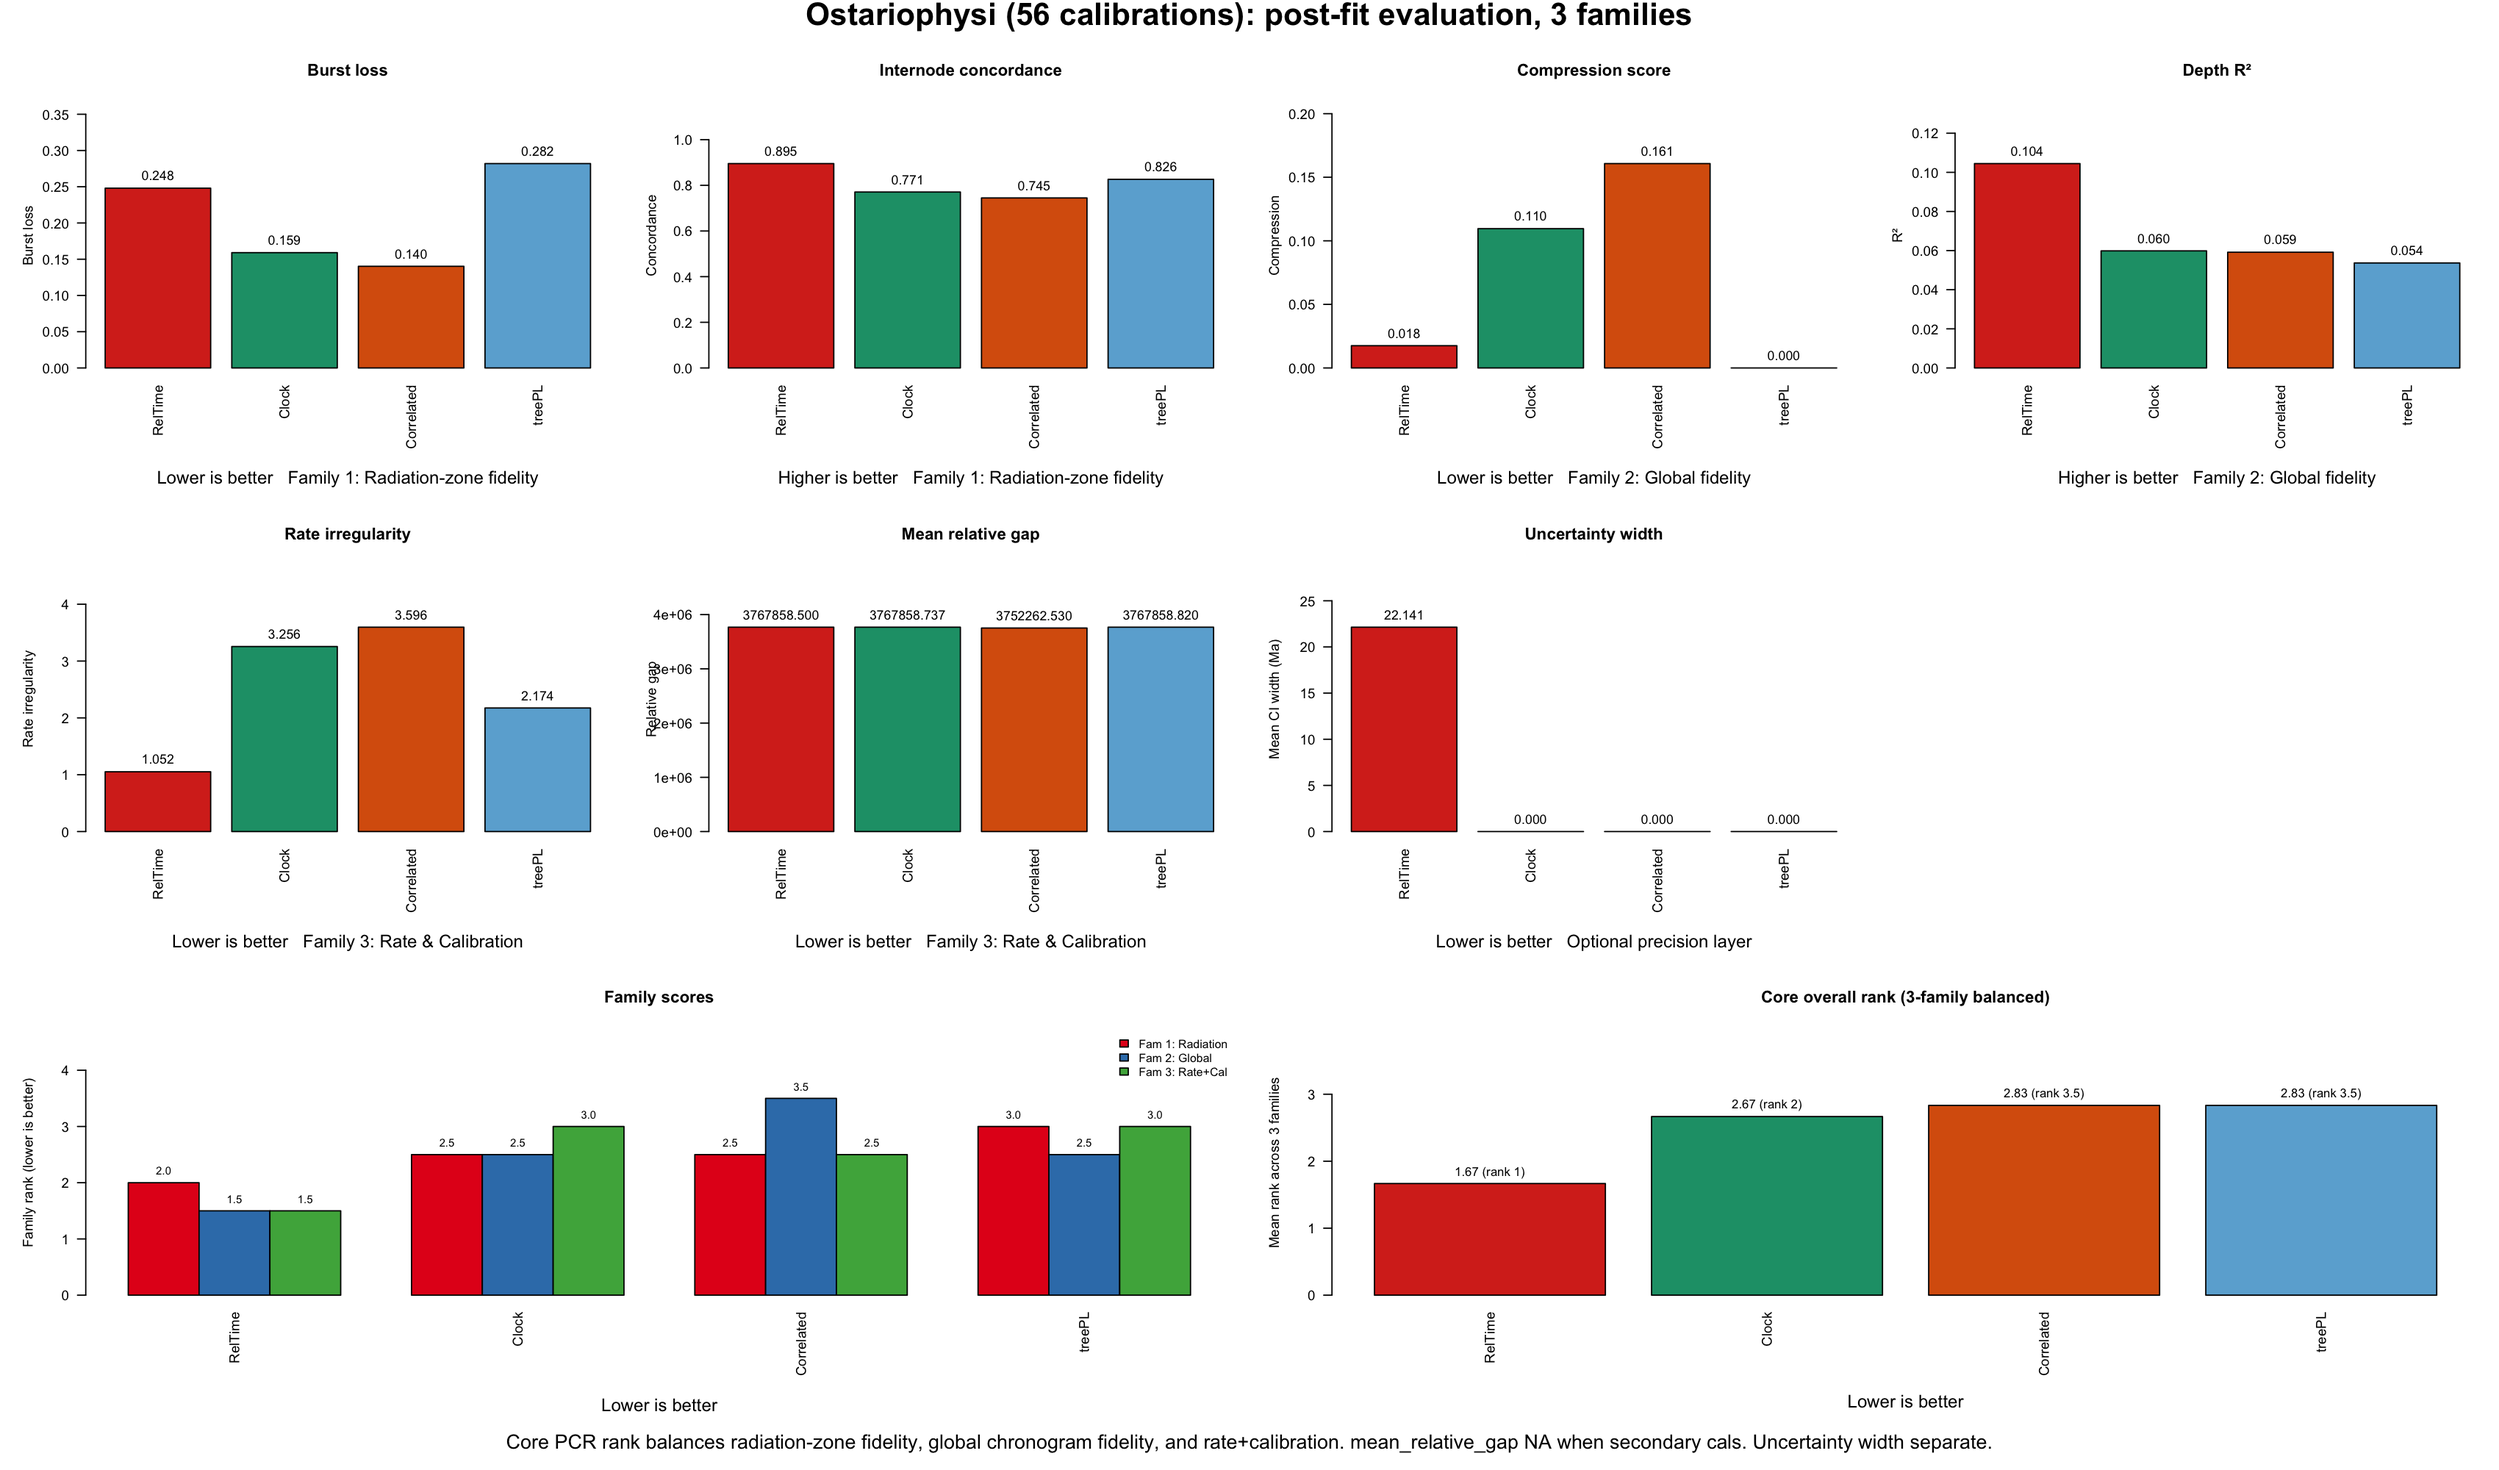
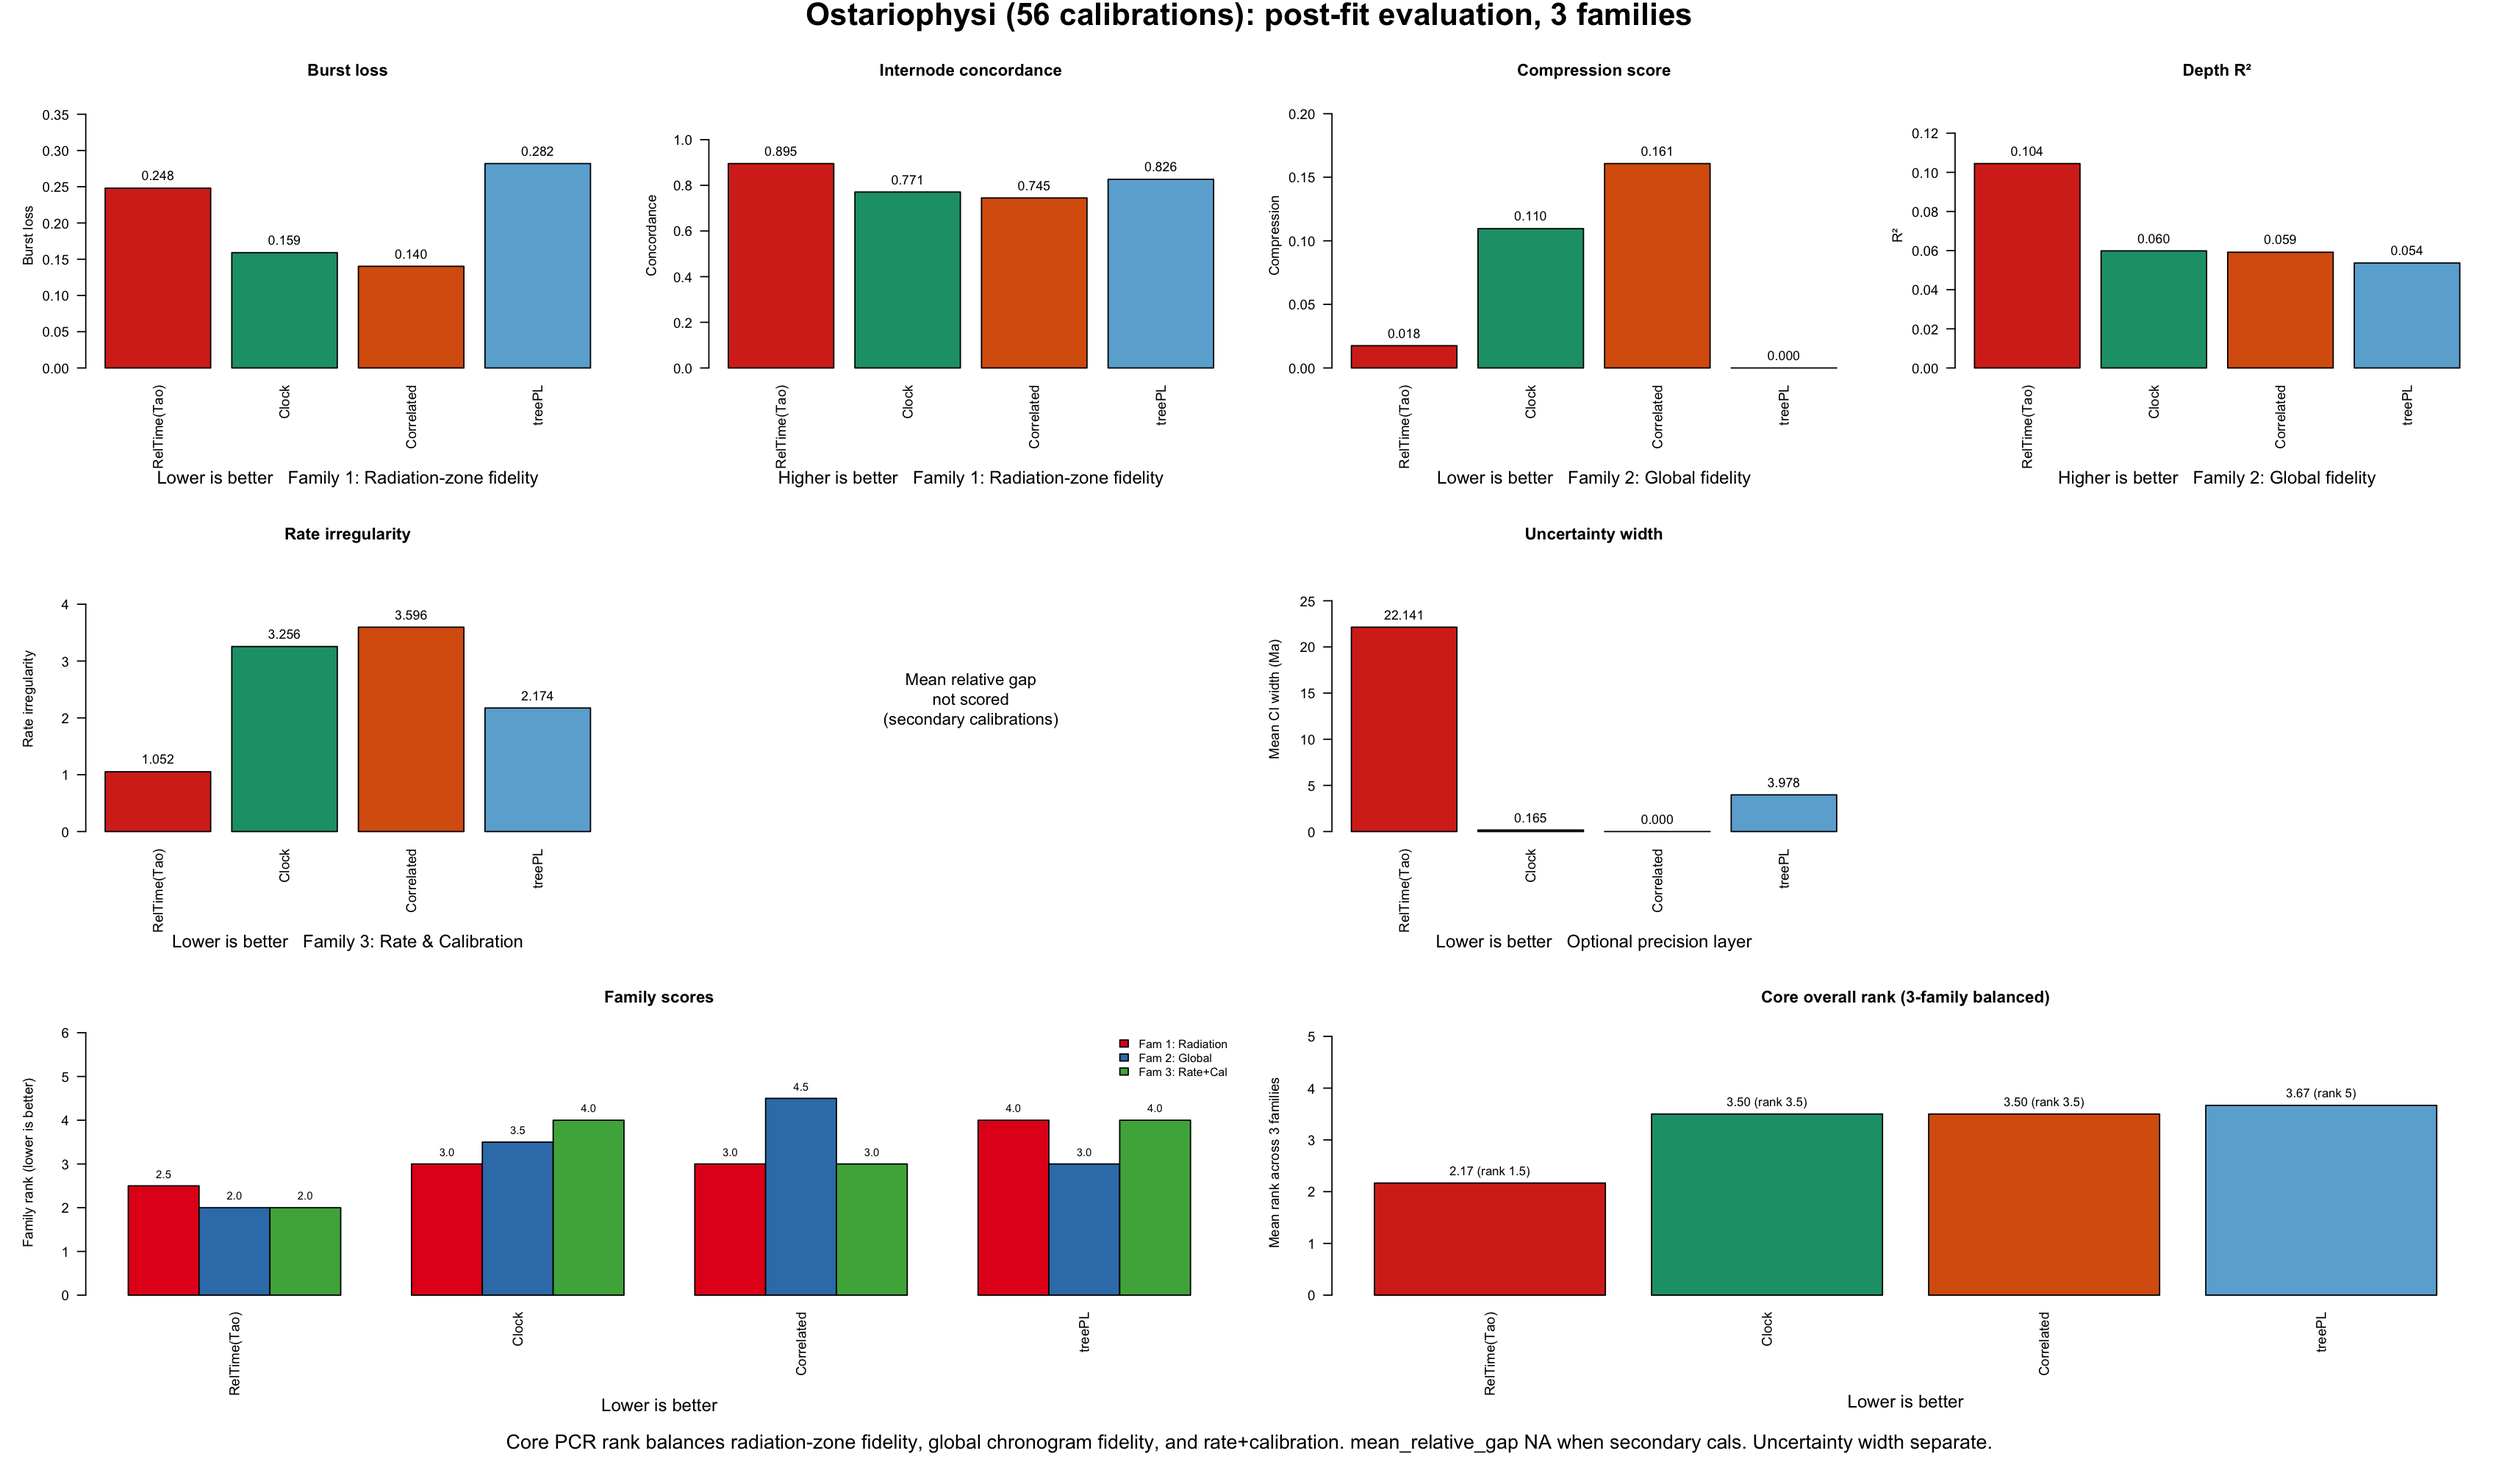
Fix Ostariophysi: CI-embedded trees, both RelTime CI types, gap explained
Use CI-annotated trees for chronos_clock, treePL, and both RelTime
variants (Tao analytical + bootstrap). Uncertainty panel now shows
real values (22.14, 6.21, 0.16, 3.98 Ma) instead of zeros.

Suppress mean_relative_gap panel: one calibration has age_min=0.000001
(Esomus↔Clarias), inflating relative gap to ~3.8M for all methods.

diff --git a/2_PCR_POSTFIT_METRICS/README.md b/2_PCR_POSTFIT_METRICS/README.md
@@ -530,20 +530,23 @@ Raw trees, calibration tables, and PCR output CSVs are withheld because the data
 
 ## Example 6: Unpublished Ostariophysi dataset (2229 tips)
 
-This large freshwater fish dataset (2229 tips, 368 radiation zones) compares four dating methods under a single dense calibration scheme (56 primary minimum-age constraints from the fossil record). Unlike the other unpublished datasets in this README, these are not secondary/congruified ages. Candidates are `chronos_clock`, `chronos_correlated`, `RelTime`, and `treePL`. `mean_relative_gap` is computed but not shown in the table because its absolute values are inflated by a few very young calibration minima, making them non-informative for comparison.
+This large freshwater fish dataset (2229 tips, 368 radiation zones) compares four dating methods under a single dense calibration scheme (56 primary minimum-age constraints from the fossil record). Unlike the other unpublished datasets in this README, these are not secondary/congruified ages. Candidates are `chronos_clock`, `chronos_correlated`, `RelTime`, and `treePL`. `mean_relative_gap` is computed but not informative: one calibration pair has `age_min = 0.000001` Ma (essentially zero), which inflates the relative gap to ~3.8 million for all methods and dominates the mean.
 
 This example is notable for exposing a **tipward compression bias** in `chronos`: both `chronos_clock` and `chronos_correlated` collapse branches in recent radiations to near-zero length, squeezing genuine divergence events into artificial near-polytomies. The effect is extreme in young clades (e.g., an Australasian-New Guinean radiation dated at 7.9 Ma by `RelTime` is compressed to 0.06–0.56 Ma by `chronos`). `treePL` and `RelTime` do not show this behavior.
 
-### Ranked post-fit results (56 primary fossil calibrations, 4 candidates)
+### Ranked post-fit results (56 primary fossil calibrations, 5 candidates)
 
-| candidate | burst loss | int. concordance | compression | depth R² | rate irregularity | Fam 1 | Fam 2 | Fam 3 | core rank |
-| --- | ---: | ---: | ---: | ---: | ---: | ---: | ---: | ---: | ---: |
-| `RelTime` | 0.248 | 0.895 | 0.018 | 0.104 | 1.052 | 2.0 | 1.5 | 1.5 | **1.67** |
-| `chronos_clock` | 0.159 | 0.771 | 0.110 | 0.060 | 3.256 | 2.5 | 2.5 | 3.0 | 2.67 |
-| `chronos_correlated` | 0.140 | 0.745 | 0.161 | 0.059 | 3.596 | 2.5 | 3.5 | 2.5 | 2.83 |
-| `treePL` | 0.282 | 0.826 | 0.000 | 0.054 | 2.174 | 3.0 | 2.5 | 3.0 | 2.83 |
+| candidate | burst loss | int. concordance | compression | depth R² | rate irregularity | uncertainty width (Ma) | Fam 1 | Fam 2 | Fam 3 | core rank |
+| --- | ---: | ---: | ---: | ---: | ---: | ---: | ---: | ---: | ---: | ---: |
+| `RelTime (Tao CI)` | 0.248 | 0.895 | 0.018 | 0.104 | 1.052 | 22.14 | 2.5 | 2.0 | 2.0 | **2.17** |
+| `RelTime (bootstrap CI)` | 0.248 | 0.895 | 0.018 | 0.104 | 1.052 | 6.21 | 2.5 | 2.0 | 2.0 | **2.17** |
+| `chronos_clock` | 0.159 | 0.771 | 0.110 | 0.060 | 3.256 | 0.16 | 3.0 | 3.5 | 4.0 | 3.50 |
+| `chronos_correlated` | 0.140 | 0.745 | 0.161 | 0.059 | 3.596 | — | 3.0 | 4.5 | 3.0 | 3.50 |
+| `treePL` | 0.282 | 0.826 | 0.000 | 0.054 | 2.174 | 3.98 | 4.0 | 3.0 | 4.0 | 3.67 |
 
-**Winner: `RelTime` (1.67).** RelTime wins decisively through the best internode concordance (0.895), best depth R² (0.104), and best rate irregularity (1.052). Its compression score (0.018) is minimal: only 1.8% of internal branches are collapsed to near-zero. In contrast, `chronos_correlated` collapses 16.1% of branches, and `chronos_clock` collapses 11.0%. `treePL` has zero compression but weaker radiation-zone preservation (burst loss = 0.282) and a lower depth R² (0.054).
+Note: the two `RelTime` rows are the same tree with different CI methods (Tao analytical vs bootstrap); their core metrics are identical and they share rank 1. The uncertainty-width column is shown separately from the core rank.
+
+**Winner: `RelTime` (2.17).** RelTime wins through the best internode concordance (0.895), best depth R² (0.104), and best rate irregularity (1.052). Its compression score (0.018) is minimal: only 1.8% of internal branches are collapsed to near-zero. In contrast, `chronos_correlated` collapses 16.1% of branches, and `chronos_clock` collapses 11.0%. `treePL` has zero compression but weaker radiation-zone preservation (burst loss = 0.282) and a lower depth R² (0.054). The uncertainty-width column reveals that RelTime Tao CIs are much wider (22.14 Ma) than bootstrap CIs (6.21 Ma), chronos bootstrap CIs are very narrow (0.16 Ma), and treePL bootstrap CIs are intermediate (3.98 Ma). `chronos_correlated` has no CI data available.
 
 ### Figure: Post-fit comparison across metric families
 
